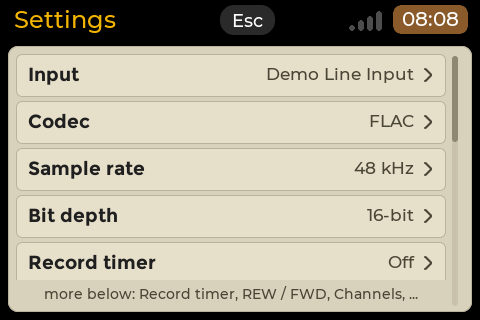
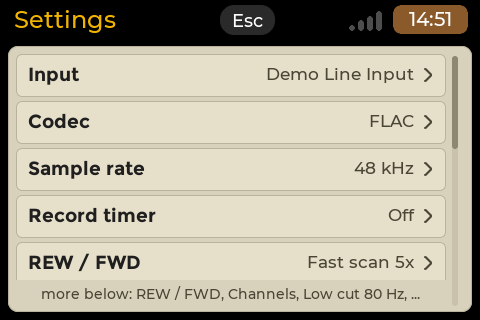
Cassette: a bit depth the card cannot record is hidden, not dimmed
The Bit depth picker (WAV, FLAC) lists only the depths the card can record. A card with one depth has nothing to
choose, so Settings has no Bit depth row for WAV and FLAC (the take gets the card's depth); with Opus the row is there
as Bit rate. Sample-rate rows and Opus at 44.1 kHz keep their dimmed-with-reason entries.

The Settings page ties an open picker to its row id, not its index, so a row that comes or goes (a card swap) does not
leave the picker on the wrong row; a row that went away closes the picker.

Tests: hidden entries, 16-bit only and 24-bit only cards (no row), both-depth card (row back); scenes fmt1, fmt7, x2
follow the shorter list, new fmt11-depth-16bit-only at 480x320, 320x480, 720x720. Docs: USER-GUIDE, FORMATS, README,
BOARD-TESTS; settings-codec-rows.png and settings-codec-flac.png re-rendered.

Claude-Session: https://claude.ai/code/session_01DZirtLRRFpxSjax5Qp5ZSW

diff --git a/apps/cassette/tests/bind/test_map.cpp b/apps/cassette/tests/bind/test_map.cpp
@@ -576,8 +576,8 @@ void test_codec_picker()
     CHECK(!p.entries[4].compatible);
     CHECK_EQ(p.entries[4].detail, "Opus not installed (libopusenc0)");
 
-    /* while a take runs the rows are dimmed */
-    s = base_snapshot();
+    /* while a take runs the rows are dimmed (a card with both depths: the Bit depth row is there) */
+    s = rich_snapshot();
     s.deck.state = kDeckRecording;
     vm = map(s);
     CHECK(!find_row(vm, "codec")->enabled && !find_row(vm, "rate")->enabled && !find_row(vm, "quality")->enabled);
@@ -640,7 +640,7 @@ void test_rate_quality_pickers()
     CHECK(p.entries.empty());
     CHECK(!find_row(map(s), "rate")->enabled);
 
-    /* bit depth (WAV, FLAC): 24-bit offered by the rich card, dimmed with the reason on a 16-bit card */
+    /* bit depth (WAV, FLAC): both depths on the rich card; a depth the card cannot record is left out (not dimmed) */
     s = rich_snapshot();
     p = quality_picker(s);
     CHECK_EQ(p.label, "Bit depth");
@@ -658,21 +658,42 @@ void test_rate_quality_pickers()
     p = quality_picker(s);
     CHECK_EQ(p.current, 1);
     CHECK_EQ(p.value, "24-bit");
+    CHECK(find_row(map(s), "quality")->enabled);
+    s.settings.format = RecFormat::Flac; /* FLAC: the same two */
+    p = quality_picker(s);
+    CHECK(p.entries.size() == 2 && p.entries[0].compatible && p.entries[1].compatible);
+    CHECK(find_row(map(s), "quality") && find_row(map(s), "quality")->label == "Bit depth");
+    /* a 16-bit only card: one entry, 16-bit; nothing to choose, so no Bit depth row (WAV and FLAC) */
     s = base_snapshot();
     p = quality_picker(s);
-    CHECK(p.entries[0].compatible && !p.entries[1].compatible);
-    CHECK_EQ(p.entries[1].reason, "this card records 16-bit only");
-    s.settings.quality = 24; /* stored, but this card has no 24-bit: 16 records */
-    p = quality_picker(s);
+    CHECK_EQ(p.entries.size(), size_t(1));
+    CHECK_EQ(p.items.size(), size_t(1));
+    CHECK_EQ(p.entries[0].name, "16-bit");
+    CHECK(p.entries[0].compatible && p.entries[0].reason.empty());
     CHECK_EQ(p.current, 0);
-    /* a 24-bit only card: 16-bit dimmed */
+    CHECK_EQ(p.value, "16-bit");
+    CHECK(!find_row(map(s), "quality"));
+    s.settings.format = RecFormat::Flac;
+    CHECK(!find_row(map(s), "quality"));
+    s.settings.format = RecFormat::Wav;
+    s.settings.quality = 24; /* stored, but this card has no 24-bit: 16 records, no entry and no row for 24 */
+    p = quality_picker(s);
+    CHECK(p.entries.size() == 1 && p.current == 0 && p.value == "16-bit");
+    CHECK(!find_row(map(s), "quality"));
+    CHECK(!selectable_param(p, 1, &why)); /* the index the 24-bit entry had: out of range now */
+    /* Opus on the same card: the Bit rate row stays */
+    s.settings.format = RecFormat::Opus;
+    s.settings.quality = 0;
+    CHECK(find_row(map(s), "quality") && find_row(map(s), "quality")->label == "Bit rate");
+    /* a 24-bit only card: one entry, 24-bit, and no row either */
     s = base_snapshot();
     s.format_inputs.has16 = false;
     s.format_inputs.has24 = true;
     s.format_inputs.capture.bits = 24;
     p = quality_picker(s);
-    CHECK(!p.entries[0].compatible && p.entries[1].compatible && p.current == 1);
-    CHECK_EQ(p.entries[0].reason, "this card records 24-bit only");
+    CHECK(p.entries.size() == 1 && p.entries[0].name == "24-bit" && p.entries[0].compatible && p.current == 0);
+    CHECK_EQ(p.value, "24-bit");
+    CHECK(!find_row(map(s), "quality"));
 
     /* bit rate (Opus): the seven rates, the speech and music hints, 32 kbps by default, a preset's own */
     s = rich_snapshot();
@@ -706,6 +727,7 @@ void test_rate_quality_pickers()
     CHECK_EQ(p.label, "Bit depth");
     CHECK_EQ(p.value, "16-bit");
     CHECK(p.items[0].change.stored.codec == RecFormat::Wav && p.items[0].change.stored.quality == 16);
+    CHECK(!find_row(map(s), "quality")); /* WAV records, the card has 16-bit only: no row */
 }
 
 void test_param_changes()
@@ -735,7 +757,8 @@ void test_settings()
     ui::ViewModel vm = map(s);
     std::vector<std::string> ids;
     for (const ui::SettingRow &r : vm.settings.rows) ids.push_back(r.id);
-    const std::vector<std::string> want = {"input", "level", "agc", "codec", "rate", "quality", "timer", "rewfwd",
+    /* a 16-bit only card: no Bit depth row (WAV) */
+    const std::vector<std::string> want = {"input", "level", "agc", "codec", "rate", "timer", "rewfwd",
                                            "channels", "lowcut", "limiter", "sync", "folder", "prefix", "takenum", "split"};
     CHECK(ids == want);
     const ui::SettingRow *r = find_row(vm, "input");
@@ -751,8 +774,17 @@ void test_settings()
     CHECK(r && r->value == "WAV" && r->choices.size() == 1 && r->enabled);
     r = find_row(vm, "rate");
     CHECK(r && r->value == "48 kHz" && r->label == "Sample rate" && r->enabled);
-    r = find_row(vm, "quality");
-    CHECK(r && r->value == "16-bit" && r->label == "Bit depth" && r->enabled);
+    CHECK(!find_row(vm, "quality"));
+    {
+        Snapshot b = s;
+        b.format_inputs.has24 = true; /* both depths: the row is back, after Sample rate */
+        ui::ViewModel bv = map(b);
+        std::vector<std::string> bids;
+        for (const ui::SettingRow &row : bv.settings.rows) bids.push_back(row.id);
+        CHECK(bids.size() == want.size() + 1 && bids[4] == "rate" && bids[5] == "quality" && bids[6] == "timer");
+        r = find_row(bv, "quality");
+        CHECK(r && r->value == "16-bit" && r->label == "Bit depth" && r->enabled && r->formats.size() == 2);
+    }
     r = find_row(vm, "timer");
     CHECK(r && r->choices.size() == 4 && r->choice == 0 && r->value == "Off");
     r = find_row(vm, "rewfwd");
@@ -801,6 +833,7 @@ void test_settings()
     /* T6d: the final order with the conditional rows, and their values */
     {
         Snapshot f = base_snapshot();
+        f.format_inputs.has24 = true; /* both depths: the Bit depth row is in the list */
         f.card.has_mute = true;
         f.card.mute = true;
         f.card.output_labels = {"USB Audio Device", "Default output"};
@@ -837,7 +870,7 @@ void test_settings()
         ui::ViewModel mv = map(m);
         std::vector<std::string> mids;
         for (const ui::SettingRow &row : mv.settings.rows) mids.push_back(row.id);
-        const std::vector<std::string> mwant = {"input", "level", "agc", "codec", "rate", "quality", "timer", "rewfwd",
+        const std::vector<std::string> mwant = {"input", "level", "agc", "codec", "rate", "timer", "rewfwd",
                                                 "channels", "lowcut", "limiter", "monitor", "monitor_level", "sync", "folder", "prefix", "takenum",
                                                 "split"};
         CHECK(mids == mwant);
@@ -921,7 +954,7 @@ void test_settings()
     s.card.has_level = s.card.has_agc = false;
     vm = map(s);
     CHECK(!find_row(vm, "level") && !find_row(vm, "agc"));
-    CHECK(vm.settings.rows.size() == 14);
+    CHECK(vm.settings.rows.size() == 13); /* and no Bit depth row: 16-bit only */
     /* no card at all */
     s.card.present = false;
     s.card.labels.clear();

diff --git a/apps/cassette/src/bind/view_map.cpp b/apps/cassette/src/bind/view_map.cpp
@@ -368,23 +368,20 @@ ParamPicker quality_picker(const Snapshot &s)
             p.entries.push_back(param_entry(c, kbps_text(k), kbps_hint(k), ch, ch.compatible, ch.why_not));
         }
     } else {
-        const std::vector<unsigned> has = card_bits(c.in);
-        for (unsigned b : {16u, 24u}) {
+        /* only the depths the card can record (owner: a depth the card cannot record is hidden, not dimmed); a depth
+         * the codec cannot store at this rate stays, dimmed with the reason */
+        for (unsigned b : card_bits(c.in)) {
             RecParams rp = c.eff;
             rp.bits = b;
             const FormatChoice ch = choice_for(c.in, rp);
-            const bool offered = std::find(has.begin(), has.end(), b) != has.end();
-            std::string why = ch.why_not;
-            if (!offered) why = std::string("this card records ") + bits_text(has.front()) + " only";
-            const bool ok = ch.compatible && offered;
             ParamItem it;
             it.change = change_quality(c.base, static_cast<int>(b));
-            it.compatible = ok;
-            it.why = why;
+            it.compatible = ch.compatible;
+            it.why = ch.why_not;
             if (b == c.eff.bits) p.current = static_cast<int>(p.items.size());
             p.items.push_back(it);
             p.entries.push_back(param_entry(c, bits_text(b), b == 16 ? "CD quality, plays everywhere" : "more headroom, larger files",
-                                            ch, ok, why));
+                                            ch, ch.compatible, ch.why_not));
         }
     }
     if (!c.known) p.footer = "No sound input: sizes unknown";
@@ -566,7 +563,9 @@ std::vector<ui::SettingRow> settings_rows(const Snapshot &s, uint64_t next_take)
         };
         rows.push_back(param_row("codec", "Codec", cp, !busy));
         rows.push_back(param_row("rate", "Sample rate", rp, !busy && known && !rp.entries.empty()));
-        rows.push_back(param_row("quality", qp.label, qp, !busy));
+        /* WAV and FLAC on a card with one depth: nothing to choose, no Bit depth row (the depth is the card's) */
+        const bool opus = effective_params(s.format_inputs, stored_of(s.settings)).codec == RecFormat::Opus;
+        if (opus || qp.entries.size() > 1) rows.push_back(param_row("quality", qp.label, qp, !busy));
     }
     {
         int pick = 0;

diff --git a/apps/cassette/src/ui/page_settings.cpp b/apps/cassette/src/ui/page_settings.cpp
@@ -154,6 +154,24 @@ void SettingsPage::update(const SettingsVm &s)
 void SettingsPage::refresh()
 {
     const SettingsVm &s = vm_;
+    if (picker_ >= 0) {
+        /* the open row moved (a row above came or went) or went away (a card with one bit depth has no Bit depth row) */
+        int at = -1;
+        for (std::size_t i = 0; i < s.rows.size(); ++i)
+            if (s.rows[i].id == picker_id_) at = static_cast<int>(i);
+        if (at != picker_) {
+            picker_ = at;
+            if (at < 0) {
+                sel_ = -1;
+                numpage_ = false;
+                if (!local_notice_.empty()) {
+                    local_notice_.clear();
+                    apply_notice();
+                }
+                if (nav_.set_title) nav_.set_title("Settings");
+            }
+        }
+    }
     std::string key = std::to_string(picker_) + (numpage_ ? "n|" : "|");
     for (const SettingRow &r : s.rows) key += r.id + ":" + std::to_string(static_cast<int>(r.kind)) + ";";
     if (picker_ >= 0 && picker_ < static_cast<int>(s.rows.size()))
@@ -494,6 +512,7 @@ void SettingsPage::activate(int i, int touch_x)
     switch (s.kind) {
     case SettingKind::Choice:
         picker_ = i;
+        picker_id_ = s.id;
         sel_ = -1;
         if (nav_.set_title) nav_.set_title(s.label);
         refresh();
@@ -518,6 +537,7 @@ void SettingsPage::activate(int i, int touch_x)
     }
     case SettingKind::Number:
         picker_ = i;
+        picker_id_ = s.id;
         numpage_ = true;
         draft_ = std::clamp(s.pos, s.min, s.max);
         sel_ = -1;

diff --git a/apps/cassette/src/bind/view_map.hpp b/apps/cassette/src/bind/view_map.hpp
@@ -21,7 +21,9 @@
  *             controller has no channel setting); the recording format is three rows, Codec, Sample rate and Quality (Bit
  *             depth for WAV and FLAC, Bit rate for Opus), each with a picker of its own (codec_picker(), rate_picker(),
  *             quality_picker(): the model of codec/formats.hpp with the size per minute of every entry at the other two
- *             choices and its free hours, an entry this card or the libraries cannot record dimmed with the reason); the
+ *             choices and its free hours, an entry this card or the libraries cannot record dimmed with the reason, except
+ *             a bit depth the card cannot record, which is left out; WAV and FLAC on a card with one depth have no Quality
+ *             row at all, the depth being the card's); the
  *             values are the effective choice ("FLAC", "48 kHz", "16-bit" / "32 kbps"; "WAV (Opus unavailable)" when
  *             the stored codec cannot be used); Codec, Sample rate, Quality, Folder and Input dimmed while a take or the
  *             countdown runs.

diff --git a/apps/cassette/tests/bind/test_binder.cpp b/apps/cassette/tests/bind/test_binder.cpp
@@ -161,10 +161,10 @@ void test_format_choice()
     CHECK(r.calls() == std::vector<std::string>{"set_rec_params wav - 48000 0"});
     r.act.setting_choice("quality", 0);
     CHECK(r.calls() == std::vector<std::string>{"set_rec_params wav - 0 16"});
-    r.act.setting_choice("quality", 1); /* this card has no 24-bit */
+    r.act.setting_choice("quality", 1); /* this card has no 24-bit: no such entry, nothing, no notice */
     CHECK(r.calls().empty());
     r.tick();
-    CHECK_EQ(r.binder.vm().notice, "Not available: this card records 16-bit only");
+    CHECK_EQ(r.binder.vm().notice, "");
     /* a card with several rates and 24-bit: Opus bit rates, a codec change that moves the rate says so */
     Rig m;
     m.port.snap.format_inputs.rates = {16000, 44100, 48000};

diff --git a/apps/cassette/tests/bind/test_demo.cpp b/apps/cassette/tests/bind/test_demo.cpp
@@ -427,8 +427,7 @@ void test_speech_card()
     CHECK(fmt && fmt->choices.size() == 1 && fmt->choices[0] == "WAV");
     const ui::SettingRow *rate = find_row(e.vm(), "rate");
     CHECK(rate && rate->choices.size() == 1 && rate->choices[0] == "16 kHz");
-    const ui::SettingRow *depth = find_row(e.vm(), "quality");
-    CHECK(depth && depth->choices.size() == 1 && depth->choices[0] == "16-bit");
+    CHECK(!find_row(e.vm(), "quality")); /* 16-bit only: no Bit depth row for WAV */
     CHECK(e.vm().rec.card.shown);              /* it has a level */
     CHECK(!find_row(e.vm(), "agc"));           /* no auto gain */
     CHECK(find_row(e.vm(), "mute"));

diff --git a/apps/cassette/src/ui/pages.hpp b/apps/cassette/src/ui/pages.hpp
@@ -207,6 +207,7 @@ private:
     lv_obj_t *list_ = nullptr, *track_ = nullptr, *thumb_ = nullptr, *hint_ = nullptr;
     std::vector<Row> rows_;
     int picker_ = -1;             /* the setting whose choices show, -1: the settings */
+    std::string picker_id_;       /* its row id: rows come and go (a card swap), the index follows the id */
     int sel_ = -1;                /* the keyboard highlight, -1: none (touch) */
     std::string layout_key_;
     int list_x_ = 0, list_y_ = 0, list_w_ = 0, list_h_ = 0, row_w_ = 0;

diff --git a/apps/cassette/docs/USER-GUIDE.md b/apps/cassette/docs/USER-GUIDE.md
@@ -359,7 +359,7 @@ The card's own rows depend on what the selected card has:
 | **Mic mute (card)** | Mutes the card's microphone. | off | only when the card has it |
 | **Codec** | The file type of new takes: WAV, FLAC or Opus. The row shows the codec in use (`WAV (Opus unavailable)` when the stored choice cannot be used) and opens a [picker page](#formats-wav-flac-and-ogg-opus): six quick presets, then the three codecs. Cannot change while a take records. | WAV | always |
 | **Sample rate** | The rate the card records at, for example `48 kHz`. The picker lists the rates the card offers; the ones the codec cannot use are dimmed. Dimmed while a take records and with no sound input. | the card's own (48 kHz if it has it) | always |
-| **Bit depth** (WAV, FLAC) or **Bit rate** (Opus) | WAV and FLAC: `16-bit` or `24-bit` (24-bit is dimmed when the card has none). Opus: 16, 24, 32, 48, 64, 96 or 128 kbps. The row's name follows the codec. | 16-bit, Opus 32 kbps | always |
+| **Bit depth** (WAV, FLAC) or **Bit rate** (Opus) | WAV and FLAC: `16-bit` or `24-bit`, the depths the card can record. Opus: 16, 24, 32, 48, 64, 96 or 128 kbps. The row's name follows the codec. | 16-bit, Opus 32 kbps | Bit rate: always with Opus. Bit depth: only when the card records both 16-bit and 24-bit (most cards record 16-bit only: then there is no row and takes are 16-bit) |
 | **Record timer** | Off, 3 s, 10 s, 20 s countdown before REC starts. | Off | always |
 | **REW / FWD** | *Fast scan 5x* (hold) or *Jump 5 s* (tap). | Fast scan 5x | always |
 | **Channels** | Mono or Stereo, what the card records. Read-only. | (the card) | always |
@@ -383,7 +383,7 @@ scrolls: drag it, or use Up / Down.
 
 ![Settings, bottom](img/settings-bottom.png)
 
-![Codec, Sample rate and Bit depth rows](img/settings-codec-rows.png)
+![Codec and Sample rate rows on a 16-bit card: no Bit depth row](img/settings-codec-rows.png)
 
 ![Settings with Codec set to FLAC](img/settings-codec-flac.png)
 
@@ -395,7 +395,8 @@ speech compress best, noisy music least). **Ogg Opus** is lossy, made for voice:
 tens of megabytes, and the quality at the speech settings is good for talking.
 
 **Choosing.** The format of a take is three settings, each on its own row in Settings: **Codec** (WAV, FLAC or Opus),
-**Sample rate** and **Bit depth** (WAV, FLAC) or **Bit rate** (Opus). Each row opens a page in the same style: one
+**Sample rate** and **Bit depth** (WAV, FLAC) or **Bit rate** (Opus); the Bit depth row is there only when the card
+records more than one depth. Each row opens a page in the same style: one
 entry per choice, the name on the left and the **estimated size per minute** on the right (`5.8 MB/min`, `about 1.7 MB/min`,
 `190 kB/min` under a megabyte), and below a line with what the choice is for and **how many hours fit** in the free
 space of the recordings folder (for example `8433 h free`; the figure is in hours, or minutes when under an hour). WAV is
@@ -428,8 +429,9 @@ cannot record is dimmed (Opus takes 8, 12, 16, 24 and 48 kHz). Choosing a rate r
 is written at it, and the strip and the list show it (`44.1k/16 WAV`). The **default** is the card's own: 48 kHz if it has
 it, else 44.1 kHz, else the highest below 48 kHz (Opus: 48 kHz, else 16 kHz).
 
-**Bit depth and bit rate.** WAV and FLAC: `16-bit` or `24-bit`; a card without 24-bit capture shows `24-bit` dimmed (`this
-card records 16-bit only`). Opus: the bit rate, one of 16, 24, 32, 48, 64, 96 and 128 kbps; the hints say which suit speech
+**Bit depth and bit rate.** WAV and FLAC: `16-bit` or `24-bit`, only the depths the card can record. A card with one
+depth (most USB cards and headsets record 16-bit only) has nothing to choose, so Settings shows **no Bit depth row** and
+takes are written in the card's depth (16-bit); with Opus the row is there as **Bit rate**. Opus: the bit rate, one of 16, 24, 32, 48, 64, 96 and 128 kbps; the hints say which suit speech
 (up to 32 kbps, coded as one channel) and which music (48 kbps and up, stereo kept). FLAC always uses compression level 5 (there
 is no setting for it).
 
@@ -452,7 +454,8 @@ is no setting for it).
 ![Opus chosen with 44.1 kHz set: the rate moved to 48 kHz and a line says so](img/codec-change-toast.png)
 
 **Entries that are not available.** A choice the card or the board cannot record stays in the list, **dimmed**, and its
-second line says why instead of the hours. A tap on it shows *Not available:* and the reason, and nothing changes. The
+second line says why instead of the hours. The one exception is a bit depth the card cannot record: it is not listed at all
+(see Bit depth above). A tap on it shows *Not available:* and the reason, and nothing changes. The
 reasons you can meet:
 
 | Reason | Meaning |
@@ -460,7 +463,6 @@ reasons you can meet:
 | `Opus needs 8, 12, 16, 24 or 48 kHz; this card has 44.1 kHz` | The card records at 44.1 kHz only (or at other rates Opus does not take). Opus is dimmed on it; Cassette does not resample. |
 | `Opus needs 8, 12, 16, 24 or 48 kHz` | On the Sample rate page with Opus chosen: this rate is not one Opus takes. |
 | `Opus records at most 2 channels`, `more than 2 channels` | The card gives more than mono or stereo. |
-| `this card records 16-bit only` (or `24-bit only`) | On the Bit depth page: the card has no such depth. |
 | `FLAC not installed (libflac14)` | The library is missing (the package name differs by system: `libflac12t64` on Ubuntu 24.04, `libflac12` on Debian bookworm). |
 | `Opus not installed (libopusenc0)` | The library for recording Opus is missing. |
 | the card's own reason | The card cannot be recorded at all; then every row is dimmed with its reason. |

diff --git a/apps/cassette/tests/BOARD-TESTS.md b/apps/cassette/tests/BOARD-TESTS.md
@@ -298,7 +298,7 @@ Goal: a card that records at neither 48000 nor 44100 Hz (a USB headset in its ca
 
 1. `cassette-probe --card <the headset>`. Expected: `open: ... OK direct: 16000 Hz, 1 ch, 16-bit` (no `Unsupported card`).
 2. Open Cassette with only that headset plugged in. Expected: the strip says `16k/16 WAV`, Settings > Sample rate reads
-   `16 kHz` (Codec `WAV`, Bit depth `16-bit`), the meter moves when you speak.
+   `16 kHz` (Codec `WAV`, no Bit depth row: the headset records 16-bit only), the meter moves when you speak.
 3. Say the numbers 1 to 30 aloud, one a second, and press REC with a watch in view; record 30 s, STOP. Expected: the
    counter at STOP reads about 0:30 (not 0:10 and not 1:30); the list shows the take at about 0:30.
 4. PLAY it through the headset (its output may play 16000 Hz only) and through another output (Settings > Output, one that
@@ -406,7 +406,7 @@ Playing, previewing and trimming them in the app is B18 (phase C); here the take
    nothing): a running Cassette writes its own settings back over the edit. Then:
    `sed -i 's/"format": *"[a-z]*"/"format": "flac"/' ~/.config/cassette/settings.json` and check it with
    `grep format ~/.config/cassette/settings.json` (expected: `"format": "flac"`).
-3. Open Cassette. Expected: the format on the window reads `48k/16 FLAC` (Codec `FLAC`, Sample rate `48 kHz`, Bit depth `16-bit` in Settings);
+3. Open Cassette. Expected: the format on the window reads `48k/16 FLAC` (Codec `FLAC`, Sample rate `48 kHz` in Settings; Bit depth `16-bit` only on a card that also has 24-bit);
    the time left is about three times what it was with WAV. Do not pick a value in Settings > Codec, Sample rate or Bit depth during B17
    (that is B19): it would overwrite the setting under test.
 4. REC, talk for 1 minute, STOP. The list: the new take `take_NNN_...flac` on top, its row ends in `FLAC` (the WAV
@@ -498,8 +498,8 @@ time, anything that stuttered or clicked.
 
 Goal: Settings > Codec, Sample rate and Bit depth / Bit rate list every choice with sizes that match what a recording really takes, and each choice reaches the file.
 
-1. Open Settings and read the three rows. Expected: `Codec` (`WAV`), `Sample rate` (`48 kHz` on a card that has it) and
-   `Bit depth` (`16-bit`). Tap Codec (or Right / Enter). Expected: the page is titled `Codec`; the heading `Quick
+1. Open Settings and read the rows. Expected: `Codec` (`WAV`), `Sample rate` (`48 kHz` on a card that has it) and,
+   only on a card that records both 16 and 24-bit, `Bit depth` (`16-bit`); a 16-bit only card has no Bit depth row. Tap Codec (or Right / Enter). Expected: the page is titled `Codec`; the heading `Quick
    presets` and six two-line rows (WAV, FLAC, Opus speech 24 kbps, Opus speech 32 kbps, Opus music 64 kbps, Opus music
    128 kbps), then the heading `Codecs` and WAV, FLAC, Opus; each row shows the size per minute on the right (`5.8
    MB/min`, `about ... MB/min` for FLAC, `... kB/min` or `... MB/min` for Opus) and a grey line under the name (the
@@ -534,8 +534,8 @@ Goal: Settings > Codec, Sample rate and Bit depth / Bit rate list every choice w
    counter, STOP, and read the take's row in the list and `file` / `soxi` / `ffprobe` on the file (rate, channels, bits,
    codec):
    - Codec WAV, Sample rate 44.1 kHz, Bit depth 16-bit: the row ends `44.1k/16 WAV`; the file says 44100 Hz, 16 bit.
-   - the same at 48 kHz, and at 24-bit if the card offers it (`48k/24 WAV`; the Bit depth page dims 24-bit with `this
-     card records 16-bit only` on a card without it).
+   - the same at 48 kHz, and at 24-bit if the card offers it (`48k/24 WAV`; a card without 24-bit has no Bit depth row
+     at all for WAV and FLAC, and with Opus the row reads Bit rate).
    - Codec FLAC at 44.1 or 48 kHz, 16-bit (and 24-bit if offered): `.flac`, the rate and depth chosen.
    - Codec Opus at 48 kHz with Bit rate 16, 24, 32, 48, 64, 96 and 128 kbps in turn (seven takes of 10 s): `.opus`;
      `ffprobe` reports the bit rate near the one chosen (within about 15 % for 10 s), 48 kHz.

diff --git a/apps/cassette/docs/FORMATS.md b/apps/cassette/docs/FORMATS.md
@@ -369,8 +369,11 @@ the dimming, the 44.1 kHz-only card, the re-validation, old and new settings key
   - **Sample rate**: every rate of the card, ascending, with a hint (`CD`, `video and most devices`, `high resolution`), sizes at
     the current codec and quality; a rate the codec cannot record is dimmed with its reason. Footer: `Sizes for FLAC, 16-bit, this card`
     (Opus: `Opus, 32 kbps`).
-  - **Quality**: WAV and FLAC: `16-bit` and `24-bit` (the one the card lacks dimmed with `this card records 16-bit only`); Opus: the
-    seven bit rates with the speech and music hint. The row's label is `Bit depth` or `Bit rate`. Footer: `Sizes for FLAC, 48 kHz, this card`.
+  - **Quality**: WAV and FLAC: the depths the card can record (`card_bits`: `16-bit`, `24-bit` or both); a depth the card lacks
+    is left out, not dimmed (owner decision; the Sample rate rows and Opus at 44.1 kHz stay dimmed with the reason). With one
+    depth there is nothing to choose, so the Settings list has no Quality row for WAV and FLAC (the take gets the card's depth;
+    the row ids, not their positions, tie the page to the rows). Opus: the seven bit rates with the speech and music hint, the
+    row always shown. The row's label is `Bit depth` or `Bit rate`. Footer: `Sizes for FLAC, 48 kHz, this card`.
   Each entry: name and size on line 1; on line 2 the hint and the hours that fit in the free space (`hours_for_space`), or, when the
   entry is dimmed, the reason. The page is the one the Format picker had; the group headings are the one addition
   (`FormatEntry::header`: small bold text, not tappable, skipped by Up / Down).

diff --git a/apps/cassette/README.md b/apps/cassette/README.md
@@ -223,7 +223,7 @@ It writes no file and changes no setting; `--no-open` only lists.
 
 WAV (Broadcast Wave) is the format of 0.1 and stays the default. FLAC (lossless) and Ogg Opus (small) are being added.
 The recorder writes them, crash-safe like WAV (a take cut by a power loss is repaired at the next start), when the
-choice in Settings (Codec, Sample rate and Bit depth / Bit rate; stored in `~/.config/cassette/settings.json` as
+choice in Settings (Codec, Sample rate and Bit depth / Bit rate, Bit depth only on a card that records both 16 and 24-bit; stored in `~/.config/cassette/settings.json` as
 `"format": "wav"`, `"flac"` or `"opus"`, the optional `"format_preset"` (`speech24`, `speech32`, `music64`, `music128`),
 `"rate"` in Hz and `"quality"`: 16 or 24 bits, or 16 to 128 kbps for Opus) is one the card and the libraries allow;
 otherwise it records WAV. Takes are named `.flac` / `.opus`, the list shows WAV, FLAC or OPUS in each row, and the take
